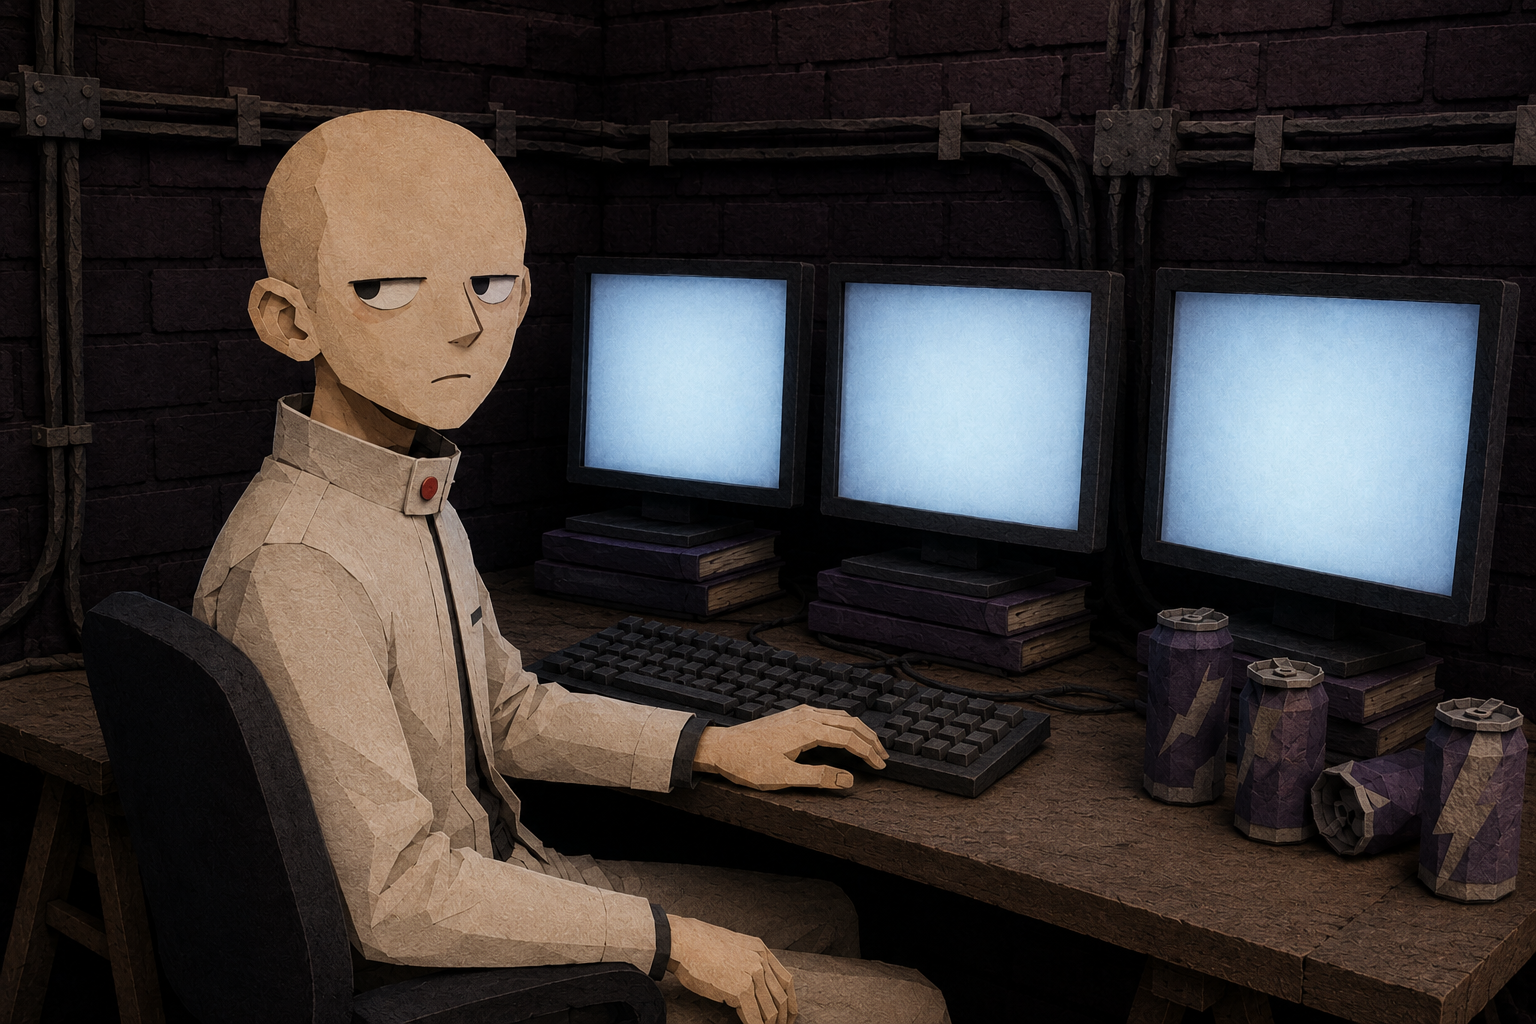
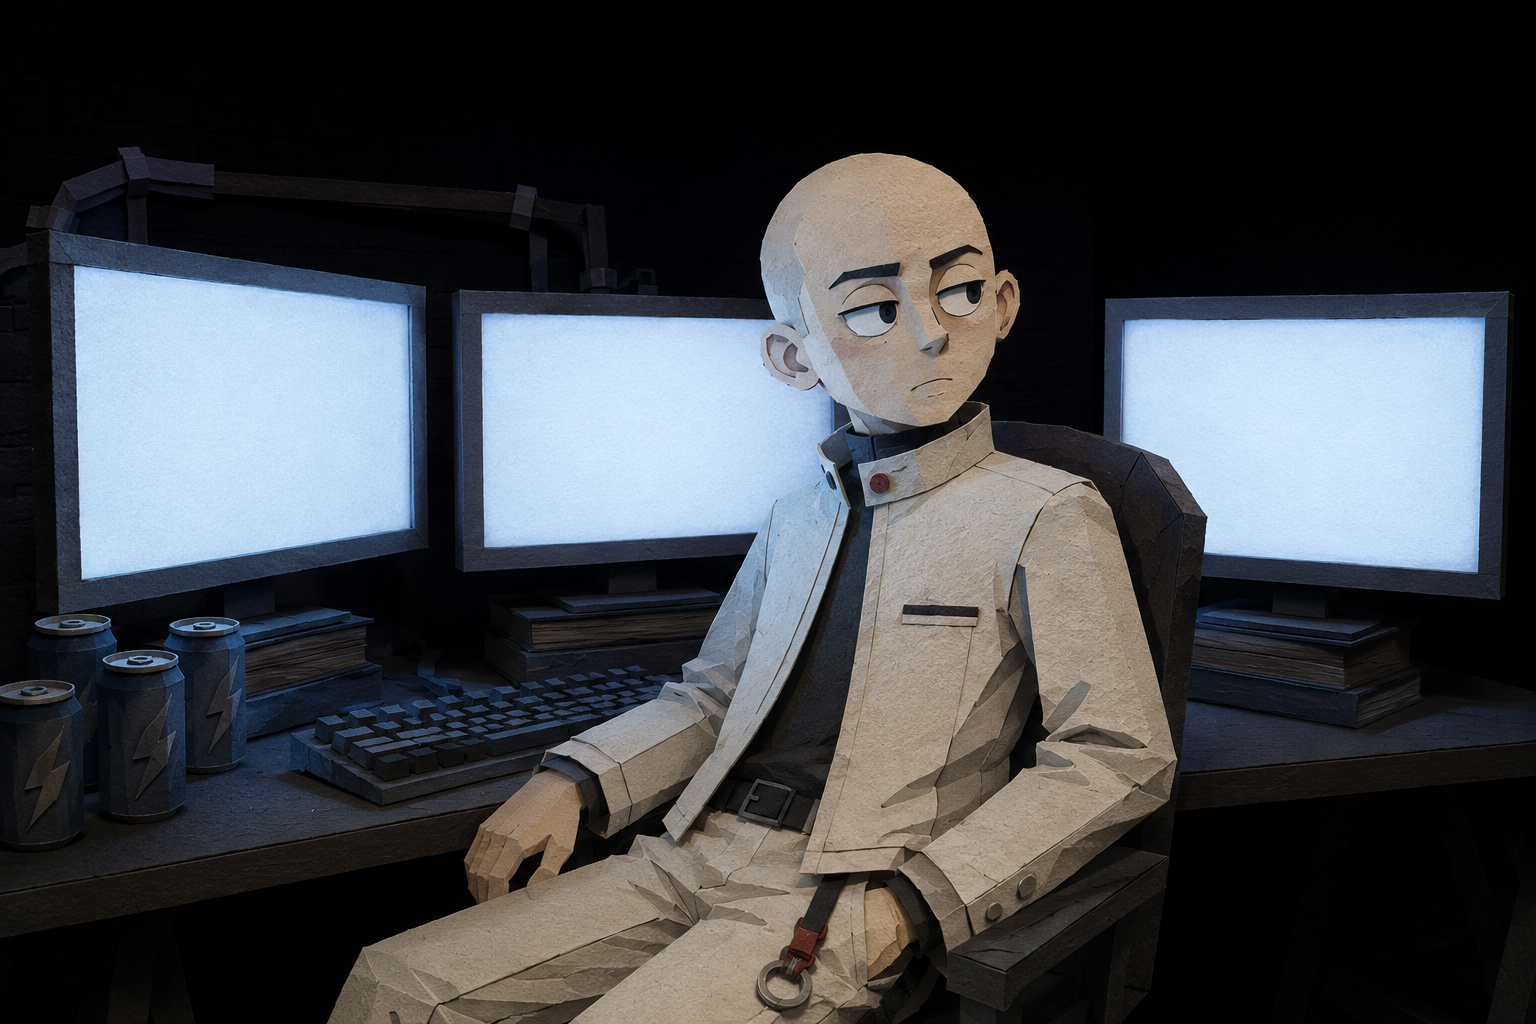
Accept the three regenerated Owen plates; give him his eyebrows back in the specs
vol1-s03, vol1-s06 and vol2-s05 all now carry the strong dark brows that
MILLBROOK_MAIN_CHARACTER_LOCKS.md and char-owen-canonical.png have always
specified. The two hard-constraint fields that still demanded a bare brow are
inverted, and vol1-s03's scene line now names the brows instead of denying them.

vol1-s03's acceptance note is rewritten to separate the two lessons in it: the
hoisting of screen and lighting constraints to the head of the prompt worked and
stands, but hoisting a wrong roster fact alongside them only made the model obey
the wrong fact harder.

diff --git a/patch-notes/specs/PATCH_NOTES_Vol1_Spec.md b/patch-notes/specs/PATCH_NOTES_Vol1_Spec.md
@@ -257,16 +257,23 @@ no panels, no charts, no readable content of any kind. The monitor glow is the O
 light source in the frame and everything behind him falls to black; the room is not
 otherwise lit.
 
-**REGENERATED AND ACCEPTED.** The first pass gave him dark eyebrows, legible window
-and panel layouts on all three monitors, and a warmly lit room with the whole
-warehouse visible. All three were already specified in the prompt but sat in the
-negative block at the foot, where they were ignored. Hoisting them into hard
-constraints at the head fixed all three at once: the second pass has a bare brow,
-screens that are pure undifferentiated glow, and the monitor light as the only
-source with the room black behind him.
+**REGENERATED THREE TIMES. THIRD PASS ACCEPTED 2026-07-29.**
 
-This is the evidence that the hard-constraints field works, and the reason it is
-now applied to every prompt where a specific feature has drifted.
+Pass 1 had legible window and panel layouts on all three monitors and a warmly lit
+room with the whole warehouse visible. Both were already specified in the prompt but
+sat in the negative block at the foot, where they were ignored. Hoisting them into
+hard constraints at the head fixed both — that part of the lesson stands, and is the
+reason the hard-constraints field is now applied to every prompt where a specific
+feature has drifted.
+
+Pass 1 *also* had dark eyebrows, and I wrongly read that as drift too, because the
+roster then said Owen had none. It was correct. Pass 2 removed them on a constraint
+I invented, which is the error described in the roster's Owen block. Pass 3 restores
+them and keeps the screen and lighting discipline from pass 2, so it is right on all
+three counts at once.
+
+The wider lesson: a hard constraint is only as good as the roster line behind it.
+Hoisting a wrong fact to the head of a prompt makes the model obey it *harder*.
 
 Prompt:
 
